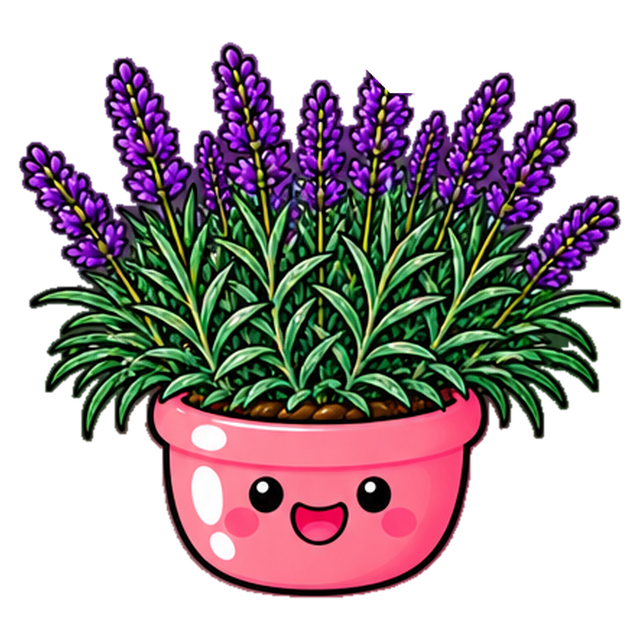
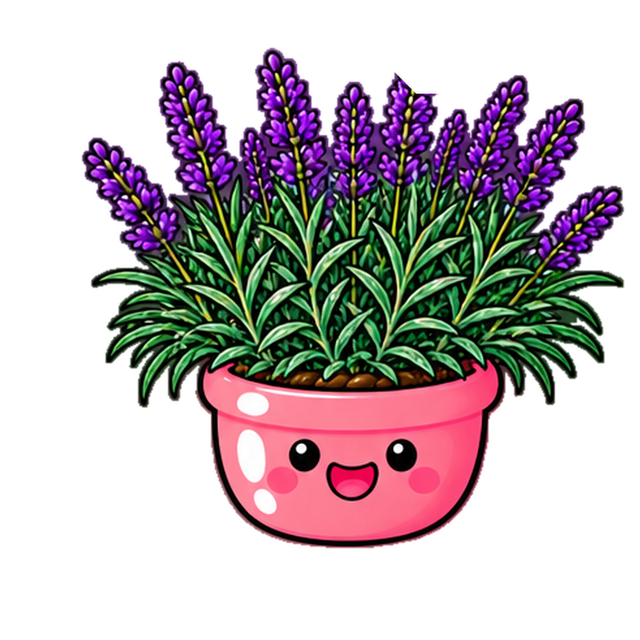
Thirsty and sleepy art for seven herbs, thirsty art for peas and runner beans
Cilantro, parsley, bay laurel, chives, tarragon, lavender and lemon balm get both moods.
Mood art is lined up by the pot, so the face stays put when the mood changes.

Claude-Session: https://claude.ai/code/session_015RxAJdHfQtruXpuwTDDmmx

diff --git a/src/data/buddyImages.ts b/src/data/buddyImages.ts
@@ -141,12 +141,12 @@ export const BUDDY_IMAGES: Record<ArtId | 'cutting', Record<Mood, ImageSourcePro
   },
   'pea': {
     happy: require('../../assets/buddies/pea-happy.png'),
-    thirsty: require('../../assets/buddies/pea-happy.png'),
+    thirsty: require('../../assets/buddies/pea-thirsty.png'),
     snoozing: require('../../assets/buddies/pea-happy.png'),
   },
   'runner-bean': {
     happy: require('../../assets/buddies/runner-bean-happy.png'),
-    thirsty: require('../../assets/buddies/runner-bean-happy.png'),
+    thirsty: require('../../assets/buddies/runner-bean-thirsty.png'),
     snoozing: require('../../assets/buddies/runner-bean-happy.png'),
   },
   'mustard-greens': {
@@ -266,38 +266,38 @@ export const BUDDY_IMAGES: Record<ArtId | 'cutting', Record<Mood, ImageSourcePro
   },
   'cilantro': {
     happy: require('../../assets/buddies/cilantro-happy.png'),
-    thirsty: require('../../assets/buddies/cilantro-happy.png'),
-    snoozing: require('../../assets/buddies/cilantro-happy.png'),
+    thirsty: require('../../assets/buddies/cilantro-thirsty.png'),
+    snoozing: require('../../assets/buddies/cilantro-snoozing.png'),
   },
   'parsley': {
     happy: require('../../assets/buddies/parsley-happy.png'),
-    thirsty: require('../../assets/buddies/parsley-happy.png'),
-    snoozing: require('../../assets/buddies/parsley-happy.png'),
+    thirsty: require('../../assets/buddies/parsley-thirsty.png'),
+    snoozing: require('../../assets/buddies/parsley-snoozing.png'),
   },
   'bay-laurel': {
     happy: require('../../assets/buddies/bay-laurel-happy.png'),
-    thirsty: require('../../assets/buddies/bay-laurel-happy.png'),
-    snoozing: require('../../assets/buddies/bay-laurel-happy.png'),
+    thirsty: require('../../assets/buddies/bay-laurel-thirsty.png'),
+    snoozing: require('../../assets/buddies/bay-laurel-snoozing.png'),
   },
   'chives': {
     happy: require('../../assets/buddies/chives-happy.png'),
-    thirsty: require('../../assets/buddies/chives-happy.png'),
-    snoozing: require('../../assets/buddies/chives-happy.png'),
+    thirsty: require('../../assets/buddies/chives-thirsty.png'),
+    snoozing: require('../../assets/buddies/chives-snoozing.png'),
   },
   'tarragon': {
     happy: require('../../assets/buddies/tarragon-happy.png'),
-    thirsty: require('../../assets/buddies/tarragon-happy.png'),
-    snoozing: require('../../assets/buddies/tarragon-happy.png'),
+    thirsty: require('../../assets/buddies/tarragon-thirsty.png'),
+    snoozing: require('../../assets/buddies/tarragon-snoozing.png'),
   },
   'lavender': {
     happy: require('../../assets/buddies/lavender-happy.png'),
-    thirsty: require('../../assets/buddies/lavender-happy.png'),
-    snoozing: require('../../assets/buddies/lavender-happy.png'),
+    thirsty: require('../../assets/buddies/lavender-thirsty.png'),
+    snoozing: require('../../assets/buddies/lavender-snoozing.png'),
   },
   'lemon-balm': {
     happy: require('../../assets/buddies/lemon-balm-happy.png'),
-    thirsty: require('../../assets/buddies/lemon-balm-happy.png'),
-    snoozing: require('../../assets/buddies/lemon-balm-happy.png'),
+    thirsty: require('../../assets/buddies/lemon-balm-thirsty.png'),
+    snoozing: require('../../assets/buddies/lemon-balm-snoozing.png'),
   },
   'sage': {
     happy: require('../../assets/buddies/sage-happy.png'),

diff --git a/src/data/art.test.ts b/src/data/art.test.ts
@@ -12,9 +12,9 @@ describe('illustration assets', () => {
     for (const r of refs) expect(existsSync(join(root, r)), r).toBe(true);
   });
 
-  it('has the 134 plant buddies in the names the app loads: {plant}-{mood}.png', () => {
+  it('has the 150 plant buddies in the names the app loads: {plant}-{mood}.png', () => {
     const files = readdirSync(join(root, 'assets', 'buddies'));
-    expect(files.length).toBe(134);
+    expect(files.length).toBe(150);
     for (const f of files) expect(f).toMatch(/^[a-z0-9-]+-(happy|thirsty|snoozing)\.png$/);
   });
 });
